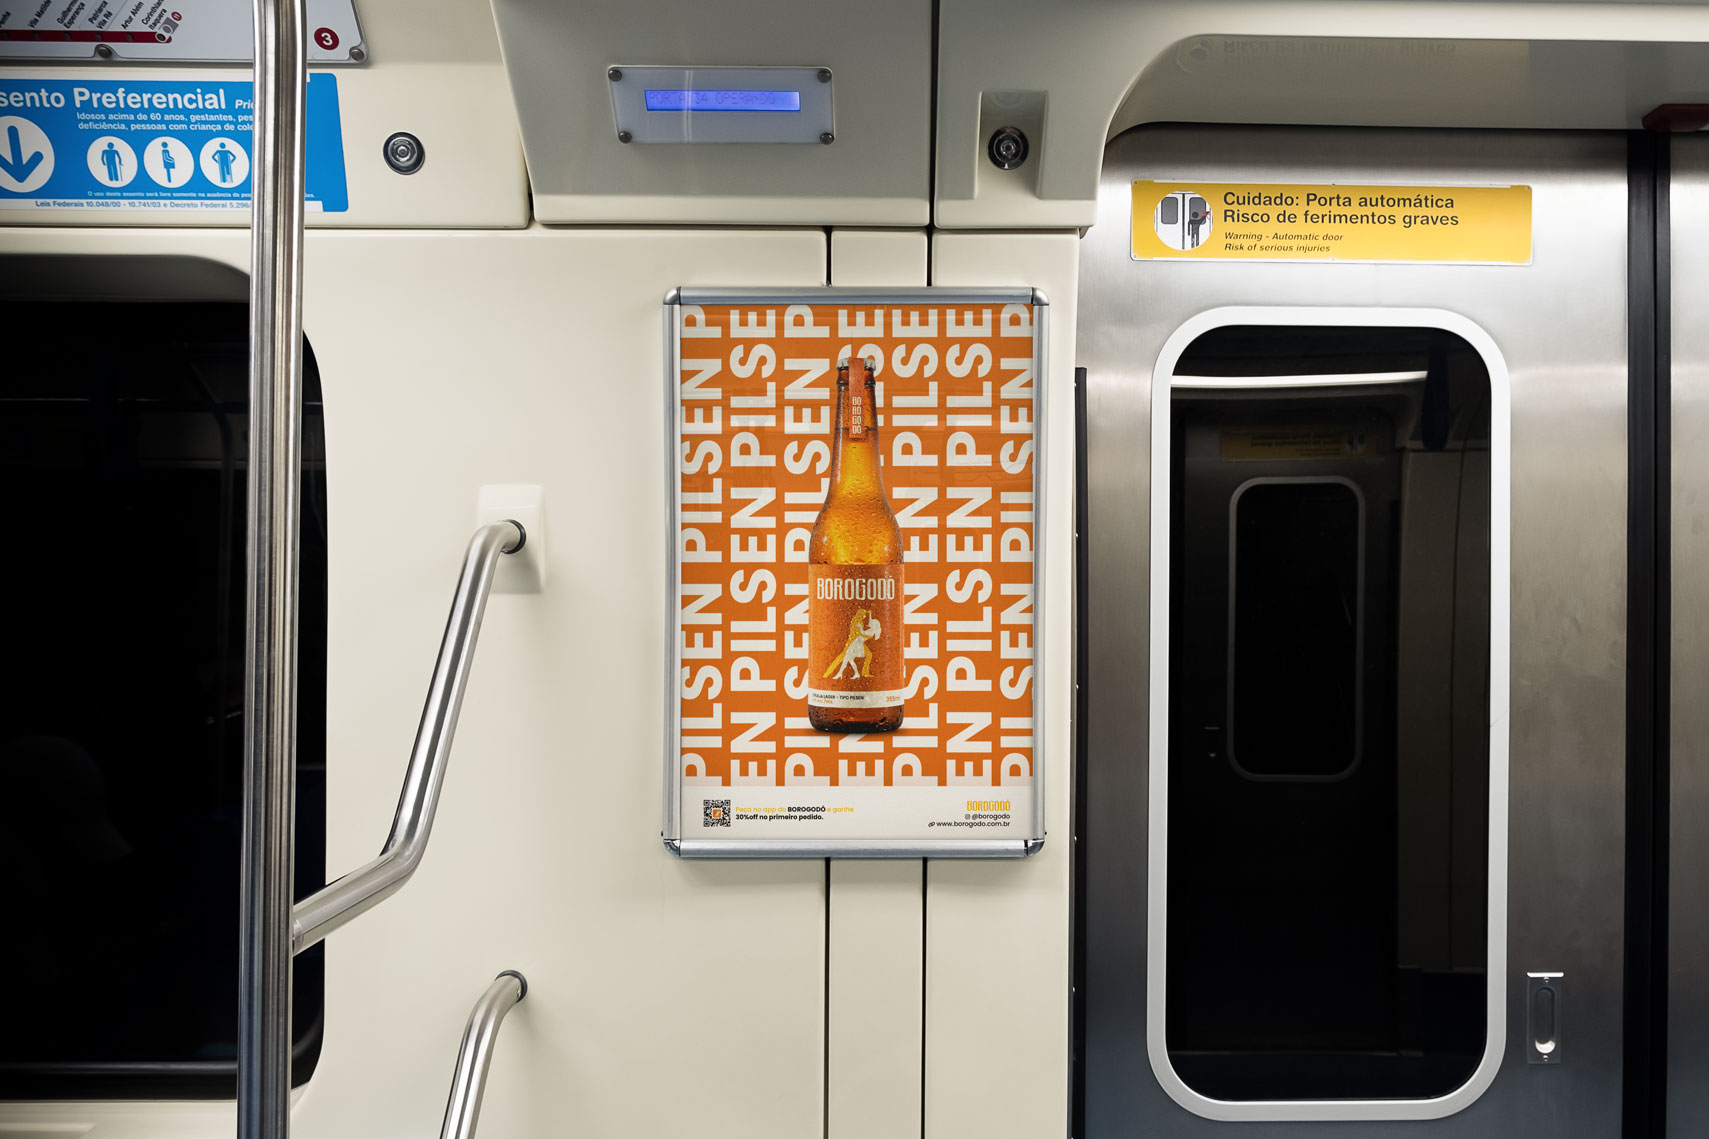
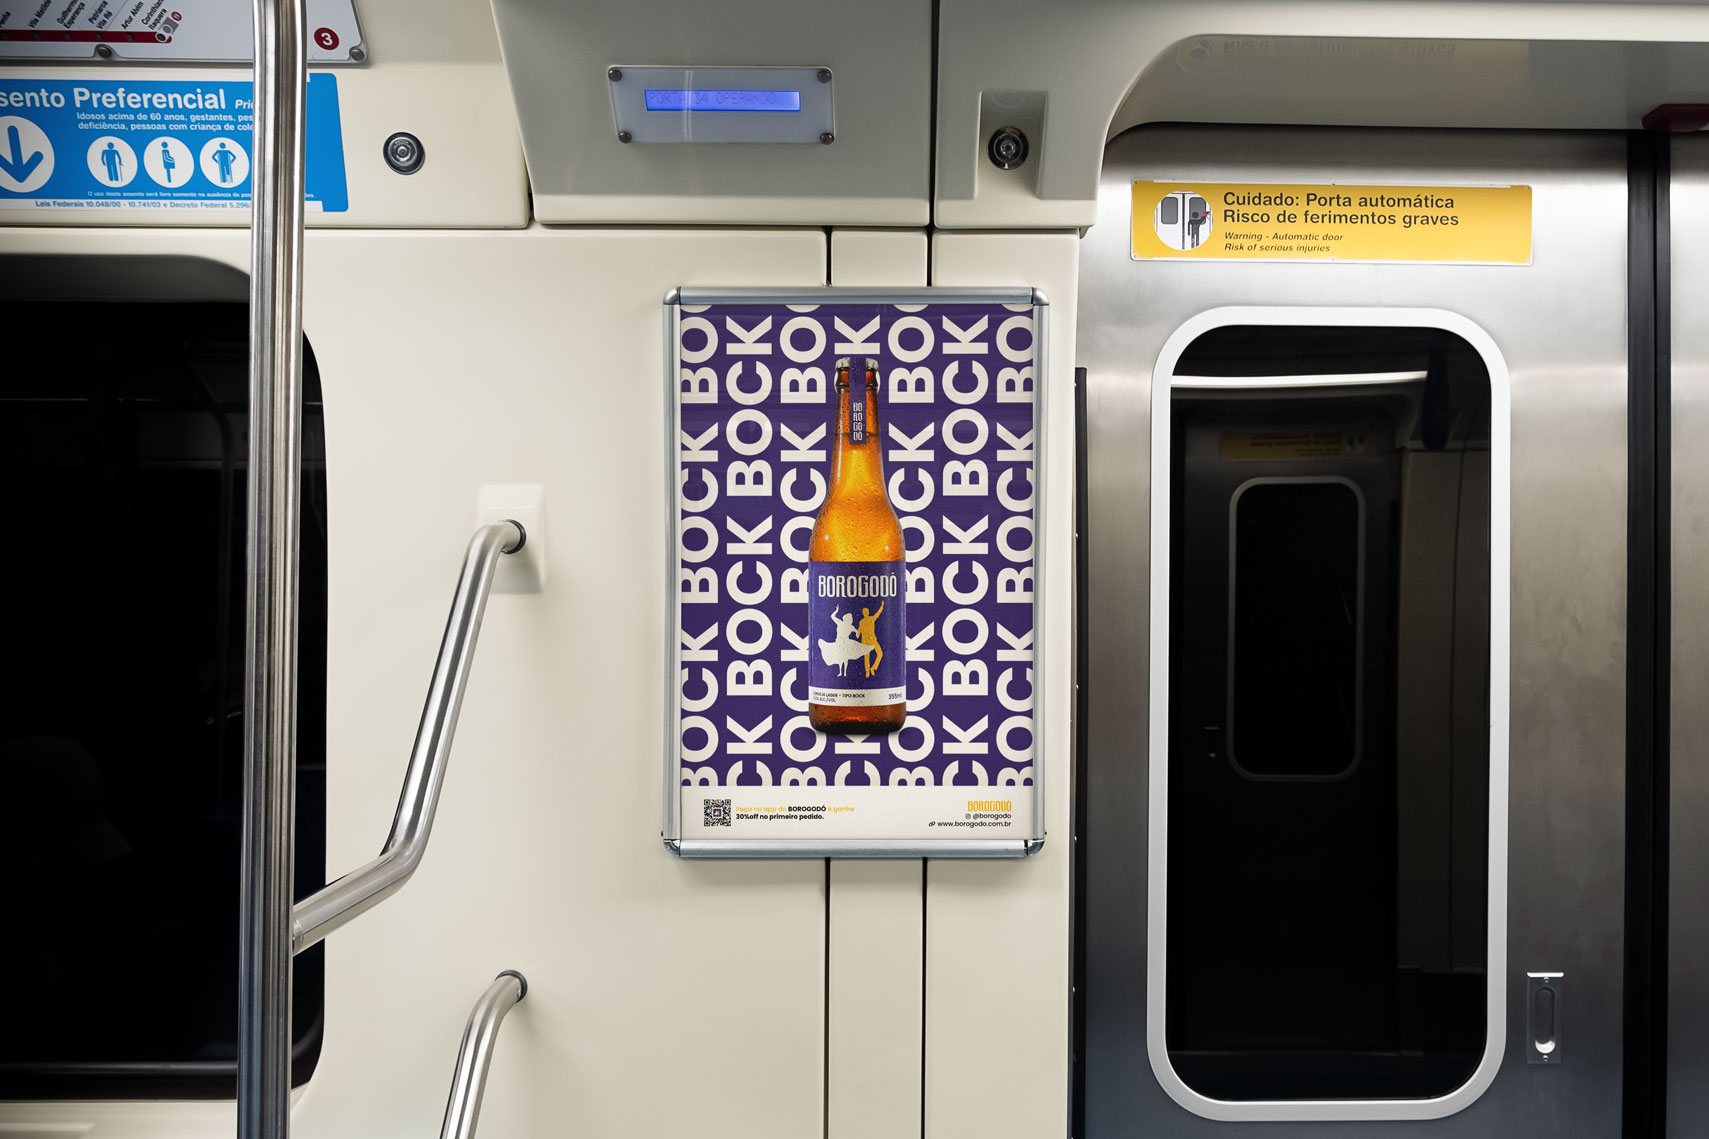
alterações na borogodó

Changed region(s): [[0.3721, 0.2458, 0.6202, 0.7375]]

diff --git a/trampos/borogodo.html b/trampos/borogodo.html
@@ -108,8 +108,13 @@
                         <p>HEX #FDFAF1</p>
                     </div>
                 </div>
-                <div class="banner-borogodo">
-                    <span class="imgs-project"><img src="../images/pages/borogodo/poste.jpg" alt=""></span>
+                <div class="banners1-borogodo">
+                    <div class="meio-banner-borogodo">
+                        <span class="imgs-project"><img src="../images/pages/borogodo/poste2.jpg" alt=""></span>
+                    </div>
+                    <div class="meio-banner-borogodo">
+                        <span class="imgs-project"><img src="../images/pages/borogodo/guarda-sol.jpg" alt=""></span>
+                    </div>
                 </div>
                 <div class="sobre-borogodo">
                     <p>A <strong>BOROGODÓ</strong> está trazendo uma nova linha de cervejas artesanais da familia Lager. As primeiras cervejas selecionadas para essa linha são a  Pilsen e a Bock, cervejas mais tradicionais e conhecidas mundialmente. Uma Fruitbeer com frutas brasileiras(maracujá e abacaxi) também se junta a nova linha. E é claro que as novas cervejas precisam de uma identidade visual que as destaquem!</p> 
@@ -119,41 +124,19 @@
                     <span class="imgs-project"><img src="../images/pages/borogodo/rotulo-bock.jpg"  alt=""></span>
                     <span class="imgs-project"><img src="../images/pages/borogodo/rotulo-fruitbeer.jpg" alt=""></span>
                 </div>
-                <div class="foto-rotulo-borogodo">
-                    <span class="imgs-project"><img src="../images/pages/borogodo/rotulos.jpg" alt=""></span>
-                </div>
                 <div class="cores-rotulos-borogodo">
-                    <div class="foto-cores-rotulos-borogodo">
-                        <span class="imgs-project"><img src="../images/pages/borogodo/tres-rotulos.png" alt=""></span>
-                    </div>
-                    <div class="todas-cores-rotulos-borogodo">
-                        <div class="rótulo-borogodo-cor1">
-                        </div>
-                        <div class="rótulo-borogodo-cor2">
-                        </div>
-                        <div class="rótulo-borogodo-cor3">
-                        </div>
-                        <div class="rótulo-borogodo-cor4">
-                        </div>
-                        <div class="rótulo-borogodo-cor5">
-                        </div>
-                        <div class="rótulo-borogodo-cor6">
-                        </div>
-                    </div>
+                    <span class="imgs-project"><img src="../images/pages/borogodo/cores-rotulos2.jpg" alt=""></span>
+                </div>
+                <div class="foto-conceitual-borogodo">
+                    <span class="imgs-project"><img src="../images/pages/borogodo/brindando.jpg" alt=""></span>
                 </div>
                 <div class="cerveja-frontal-borogodo">
                     <div class="cerveja-frente-borogodo">
                         <span class="imgs-project"><img src="../images/pages/borogodo/frontal2.jpg" alt=""></span>
                     </div>
-                    <div class="cerveja-costas-borogodo">
-                        <span class="imgs-project"><img src="../images/pages/borogodo/costas.jpg" alt=""></span>
+                    <div class="cerveja-copo-borogodo">
+                        <span class="imgs-project"><img src="../images/pages/borogodo/cerveja-no-copo.jpg" alt=""></span>
                     </div>
-                </div>
-                <div class="tres-cervejas-borogodo">
-                    <span class="imgs-project"><img src="../images/pages/borogodo/tres-cervejas.jpg" alt=""></span>
-                </div>
-                <div class="foto-conceitual-borogodo">
-                    <span class="imgs-project"><img src="../images/pages/borogodo/conceitual.png" alt=""></span>
                 </div>
                 <div class="tampinha-borogodo">
                     <span class="imgs-project"><img src="../images/pages/borogodo/tampinha.jpg" alt=""></span>
@@ -162,12 +145,7 @@
                     <span class="imgs-project"><img src="../images/pages/borogodo/social.jpg" alt=""></span>
                 </div> 
                 <div class="banners2-borogodo">
-                    <div class="meio-banner-borogodo">
-                        <span class="imgs-project"><img src="../images/pages/borogodo/onibus.jpg" alt=""></span>
-                    </div>
-                    <div class="meio-banner-borogodo">
-                        <span class="imgs-project"><img src="../images/pages/borogodo/bar.jpg" alt=""></span>
-                    </div>
+                    <span class="imgs-project"><img src="../images/pages/borogodo/onibus2.jpg" alt=""></span>
                 </div>
                 <div class="banners3-borogodo">
                     <div class="meio-banner-borogodo">
@@ -176,10 +154,10 @@
                     <div class="meio-banner-borogodo">
                         <span class="imgs-project"><img src="../images/pages/borogodo/vagao.jpg" alt=""></span>
                     </div>
-                </div> 
-                <div class="foto-cheers">
-                    <span class="imgs-project"><img src="../images/pages/borogodo/cheers.jpg" alt=""></span>
-                </div>  
+                </div>
+                <div class="banners4-borogodo">
+                    <span class="imgs-project"><img src="../images/pages/borogodo/poste.jpg" alt=""></span>
+                </div>
             </div>
             <div class="pag-project borogodo-bg">
                 <div class="prev-project borogodo">

diff --git a/css/pages.css b/css/pages.css
@@ -1663,27 +1663,17 @@
     list-style: none;
 }
 
-.banner-borogodo{
-    height: 22.5vh;
+.banners1-borogodo{
+    display: flex;
+    flex-direction: row;
     width: 100vw;
+    height: 25vh;
 }
 
-.banner-borogodo img{
+.banners1-borogodo img{
     height: 100%;
     width: 100%;
     object-fit: cover;
-}
-
-.foto-rotulo-borogodo{
-    height: 20.5vh;
-    width: 100vw;
-}
-
-.foto-rotulo-borogodo img{
-    height: 100%;
-    width: 100%;
-    object-fit: cover;
-    object-position: bottom;
 }
 
 .design-rotulo-borogodo{
@@ -1703,57 +1693,13 @@
 .cores-rotulos-borogodo{
     width: 100vw;
     height: 30vh;
-    display: flex;
-    flex-direction: column;
 }
 
-.foto-cores-rotulos-borogodo{
-    width: 100%;
-    height: 80%;
-}
-
-.foto-cores-rotulos-borogodo img{
+.cores-rotulos-borogodo img{
     width: 100%;
     height: 100%;
     object-fit: cover;
     background-color:#aaaaaa;
-}
-
-.todas-cores-rotulos-borogodo{
-    width: 100%;
-    height: 20%;
-    display: flex;
-    flex-direction: row;
-}
-
-.rótulo-borogodo-cor1{
-    background-color: #e77122;
-    width: 16.66%;
-}
-
-.rótulo-borogodo-cor2{
-    background-color: #6422c9;
-    width: 16.66%;
-}
-
-.rótulo-borogodo-cor3{
-    background-color: #0e6d17;
-    width: 16.66%;
-}
-
-.rótulo-borogodo-cor4{
-    background-color: var(--borogodo-bg);
-    width: 16.66%;
-}
-
-.rótulo-borogodo-cor5{
-    background-color: var(--borogodo-txt);
-    width: 16.66%;
-}
-
-.rótulo-borogodo-cor6{
-    background-color: var(--borogodo-txt2);
-    width: 16.66%;
 }
 
 .cerveja-frontal-borogodo{
@@ -1774,26 +1720,16 @@
     background-color:#aaaaaa;
 }
 
-.cerveja-costas-borogodo{
+.cerveja-copo-borogodo{
     width: 50vw;
 }
 
-.cerveja-costas-borogodo img{
+.cerveja-copo-borogodo img{
     width: 100%;
     height: 100%;
     object-fit: cover;
+    object-position: 0 80%;
     background-color:#aaaaaa;
-}
-
-.tres-cervejas-borogodo{
-    height: 25vh;
-    width: 100vw;
-}
-
-.tres-cervejas-borogodo img{
-    height: 100%;
-    width: 100%;
-    object-fit: cover;
 }
 
 .foto-conceitual-borogodo{
@@ -1807,6 +1743,7 @@
     height: 25vh;
     width: 100%;
     object-fit: cover;
+    object-position: top;
     background-color:#aaaaaa;
 }
 
@@ -1834,10 +1771,14 @@
 }
 
 .banners2-borogodo{
-    display: flex;
-    flex-direction: row;
     width: 100vw;
-    height: 17.5vh;
+    height: 25vh;
+}
+
+.banners2-borogodo img{
+    height: 100%;
+    width: 100%;
+    object-fit: cover;
 }
 
 .banners3-borogodo{
@@ -1859,18 +1800,15 @@
     background-color: #222222;
 }
 
-.foto-cheers{
-    height: 20vh;
+.banners4-borogodo{
+    height: 22.5vh;
     width: 100vw;
-    display: flex;
-    flex-direction: column;
 }
 
-.foto-cheers img{
-    height: 20vh;
+.banners4-borogodo img{
+    height: 100%;
     width: 100%;
     object-fit: cover;
-    background-color:#aaaaaa;
 }
 
 .footer-borogodo{
@@ -3978,12 +3916,8 @@
         height: 50vh;
     }
 
-    .banner-borogodo{
-        height: 100vh;
-    }
-
-    .foto-rotulo-borogodo{
-        height: 91vh;
+    .banners1-borogodo{
+        height: 95vh;
     }
 
     .design-rotulo-borogodo{
@@ -3997,60 +3931,10 @@
 
     .cores-rotulos-borogodo{
         height: 90vh;
-        flex-direction: row;
-    }
-
-    .foto-cores-rotulos-borogodo{
-        width: 85%;
-        height: 100%;
-    }
-
-    .todas-cores-rotulos-borogodo{
-        width: 15%;
-        height: 100%;
-        flex-direction: column;
-    }
-
-    .rótulo-borogodo-cor1{
-        width: 100%;
-        height: 16.66%;
-    }
-
-    .rótulo-borogodo-cor2{
-        width: 100%;
-        height: 16.66%;
-    }
-
-    .rótulo-borogodo-cor3{
-        width: 100%;
-        height: 16.66%;
-    }
-
-    .rótulo-borogodo-cor4{
-        width: 100%;
-        height: 16.66%;
-    }
-
-    .rótulo-borogodo-cor5{
-        width: 100%;
-        height: 16.66%;
-    }
-
-    .rótulo-borogodo-cor6{
-        width: 100%;
-        height: 16.66%;
     }
 
     .cerveja-frontal-borogodo{
         height: 75vh;
-    }
-
-    .tres-cervejas-borogodo{
-        height: 105vh;
-    }
-
-    .cerveja-360-borogodo{
-        height: 65vh;
     }
 
     .foto-conceitual-borogodo{
@@ -4072,19 +3956,15 @@
     }
 
     .banners2-borogodo{
-        height: 75vh;
+        height: 110vh;
     }
 
     .banners3-borogodo{
         height: 65vh;
     }
 
-    .foto-cheers{
-        height: 80vh;
-    }
-
-    .foto-cheers img{
-        height: 80vh;
+    .banners4-borogodo{
+        height: 100vh;
     }
 
     /*RUPTURA*/
